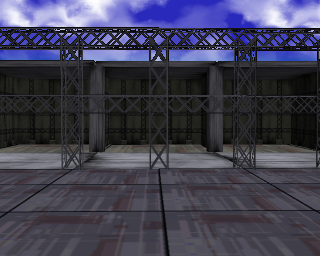
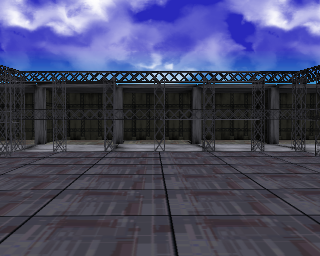
色々リファクタリング
* 背景を変更
* watch:testを修正

diff --git a/src/animation/ArmdozerSprite.js b/src/animation/ArmdozerSprite.js
@@ -6,9 +6,8 @@ module.exports = function(spec,my) {
     var EXPLOSION_WIDTH = 96;
     var EXPLOSION_HEIGHT = 96;
     var DEFAULT_X_FOR_DIRECTION_RIGHT = 170;
-    var DEFAULT_Y_FOR_DIRECTION_RIGHT = 150;
     var DEFAULT_X_FOR_DIRECTION_LEFT = -10;
-    var DEFAULT_Y_FOR_DIRECTION_LEFT = 150;
+    var DEFAULT_Y = 130;
     var DIRECTION_RIGHT = 'right';
 
     var that = new Sprite(SPRITE_WIDTH,SPRITE_HEIGHT);
@@ -51,7 +50,7 @@ module.exports = function(spec,my) {
 
     function doStandMotion(){
         that.x = direction===DIRECTION_RIGHT ? DEFAULT_X_FOR_DIRECTION_RIGHT : DEFAULT_X_FOR_DIRECTION_LEFT;
-        that.y = direction===DIRECTION_RIGHT ? DEFAULT_Y_FOR_DIRECTION_RIGHT : DEFAULT_Y_FOR_DIRECTION_LEFT;
+        that.y = DEFAULT_Y;
         that.frame = core.FRAME_STAND;
     }
 

diff --git a/grunt/watch/index.js b/grunt/watch/index.js
@@ -1,10 +1,13 @@
+var PRODUCT_SOURCE_PATH = 'src/**/*.js';
+var TEST_SOURCE_PATH = 'srcForTest/**/*.js';
+
 module.exports = {
     product: {
-        files: ['src/**/*.js'],
+        files: [PRODUCT_SOURCE_PATH],
         tasks: ['webpack:product']
     },
     test: {
-        files: ['srcForTest/**/*.js'],
-        tasks: ['webpack:product']
+        files: [PRODUCT_SOURCE_PATH, TEST_SOURCE_PATH],
+        tasks: ['webpack:test']
     }
 };

diff --git a/src/scene/battleSceneBase.js b/src/scene/battleSceneBase.js
@@ -107,7 +107,7 @@ module.exports = function(spec,my){
                 pict : core.assets[core.PICT_BATTERY_NUMBER]
             });
             that.batteryNumberArray[uid].x = uid===that.userId ? 226 : 30;
-            that.batteryNumberArray[uid].y = 190;
+            that.batteryNumberArray[uid].y = 170;
             that.batteryNumberArray[uid].visible = false;
             that.addChild(that.batteryNumberArray[uid]);
 
